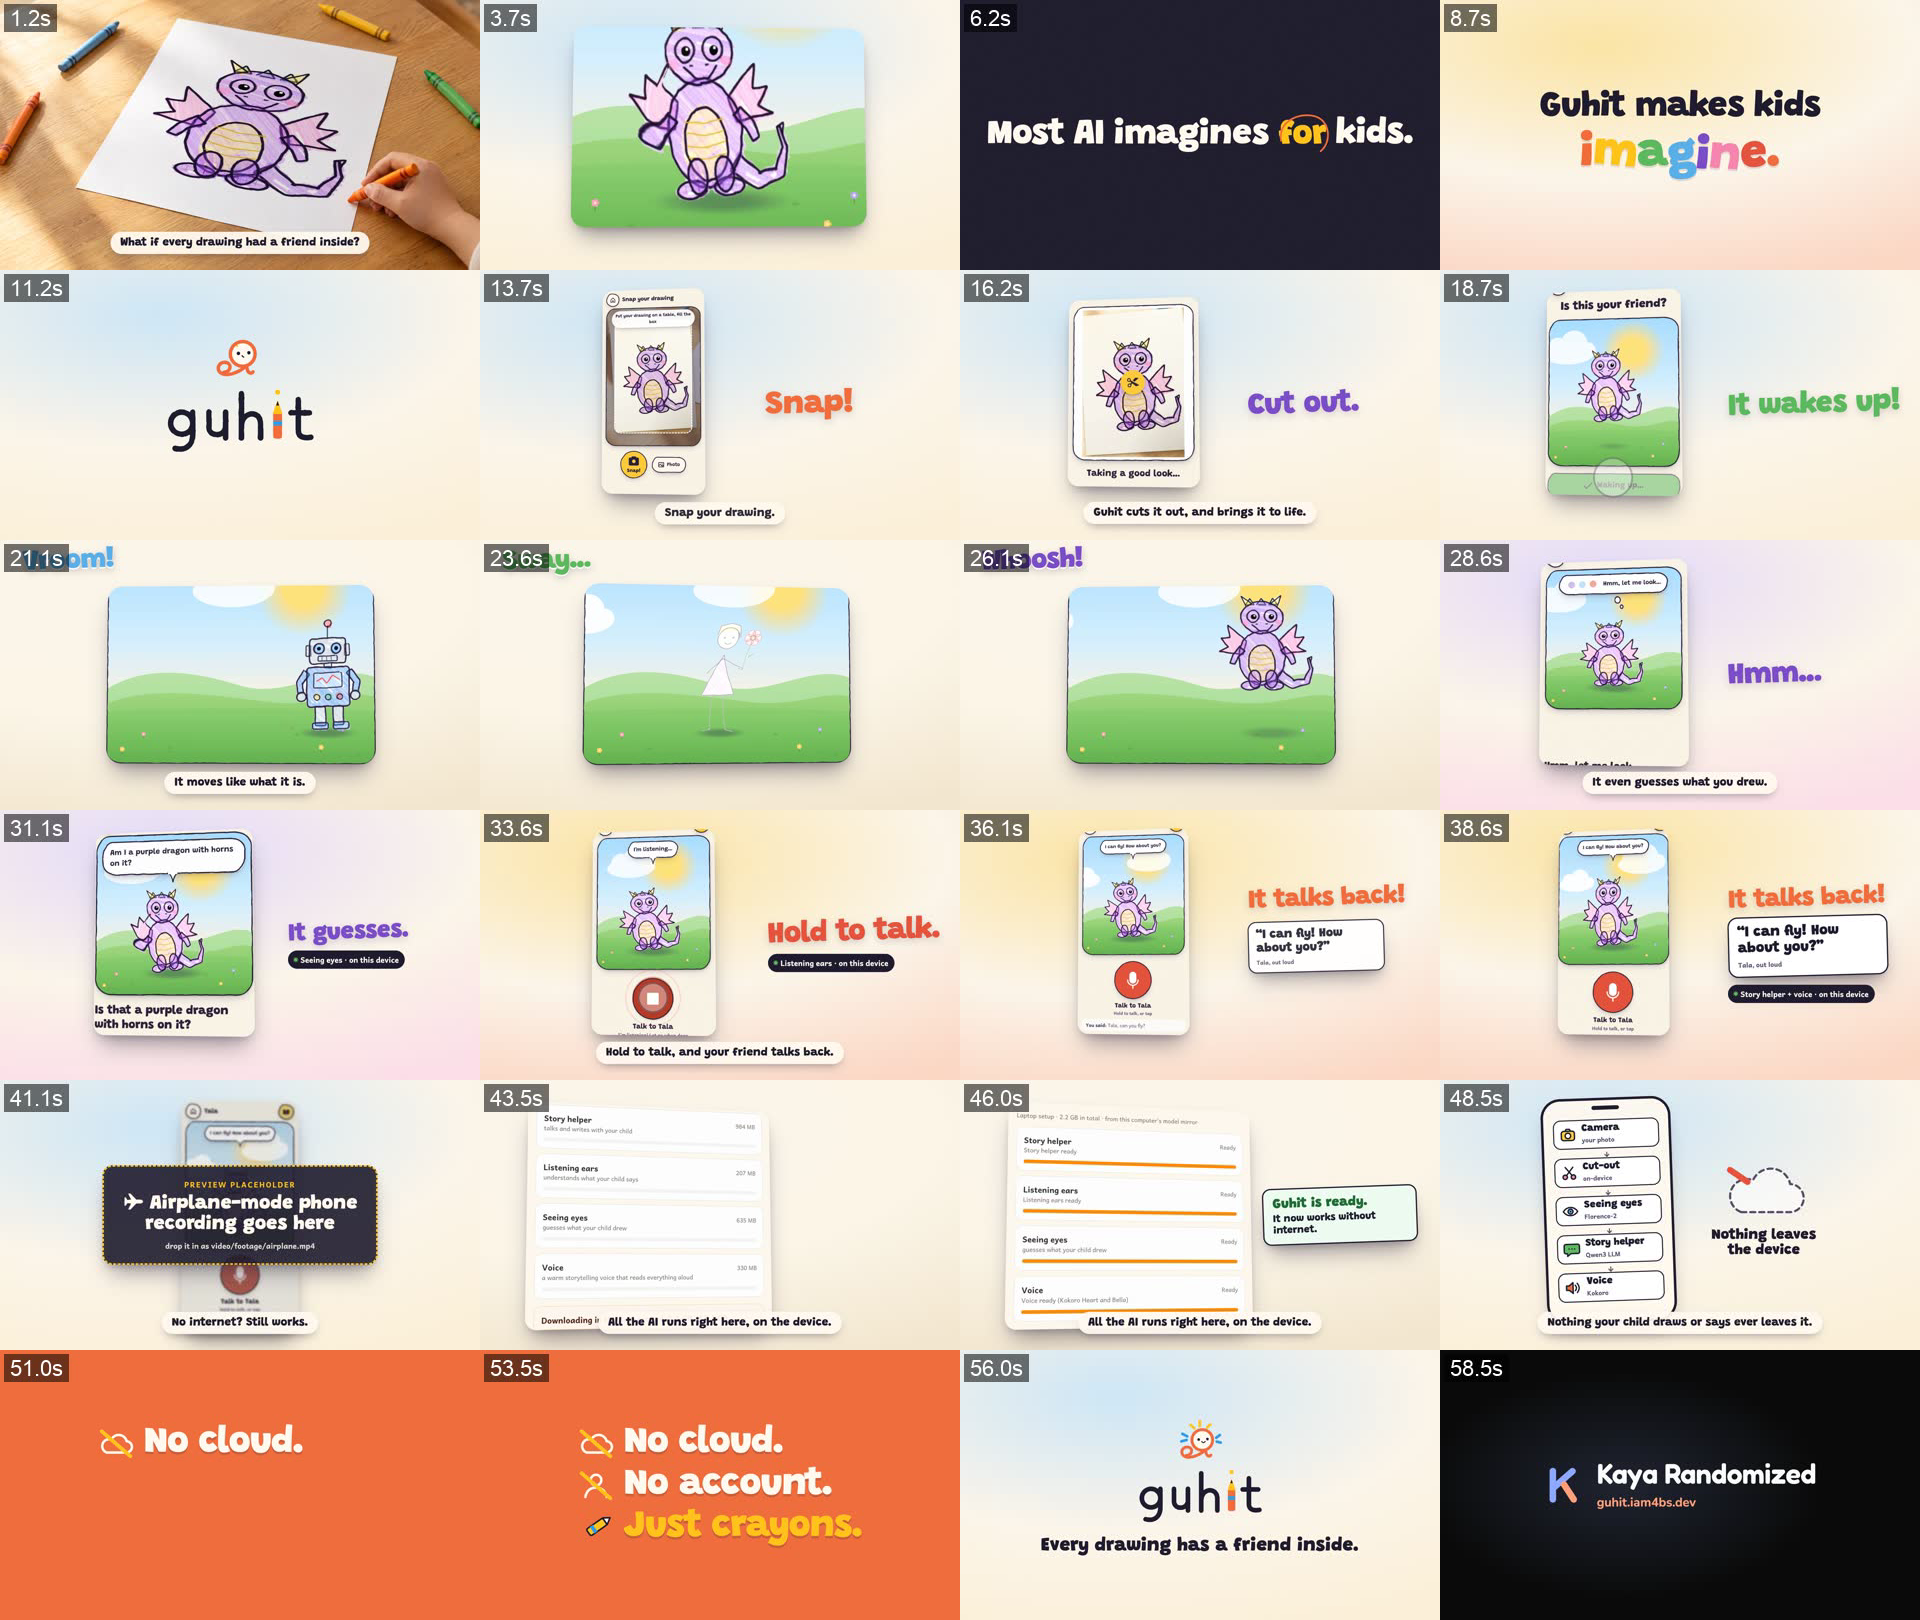
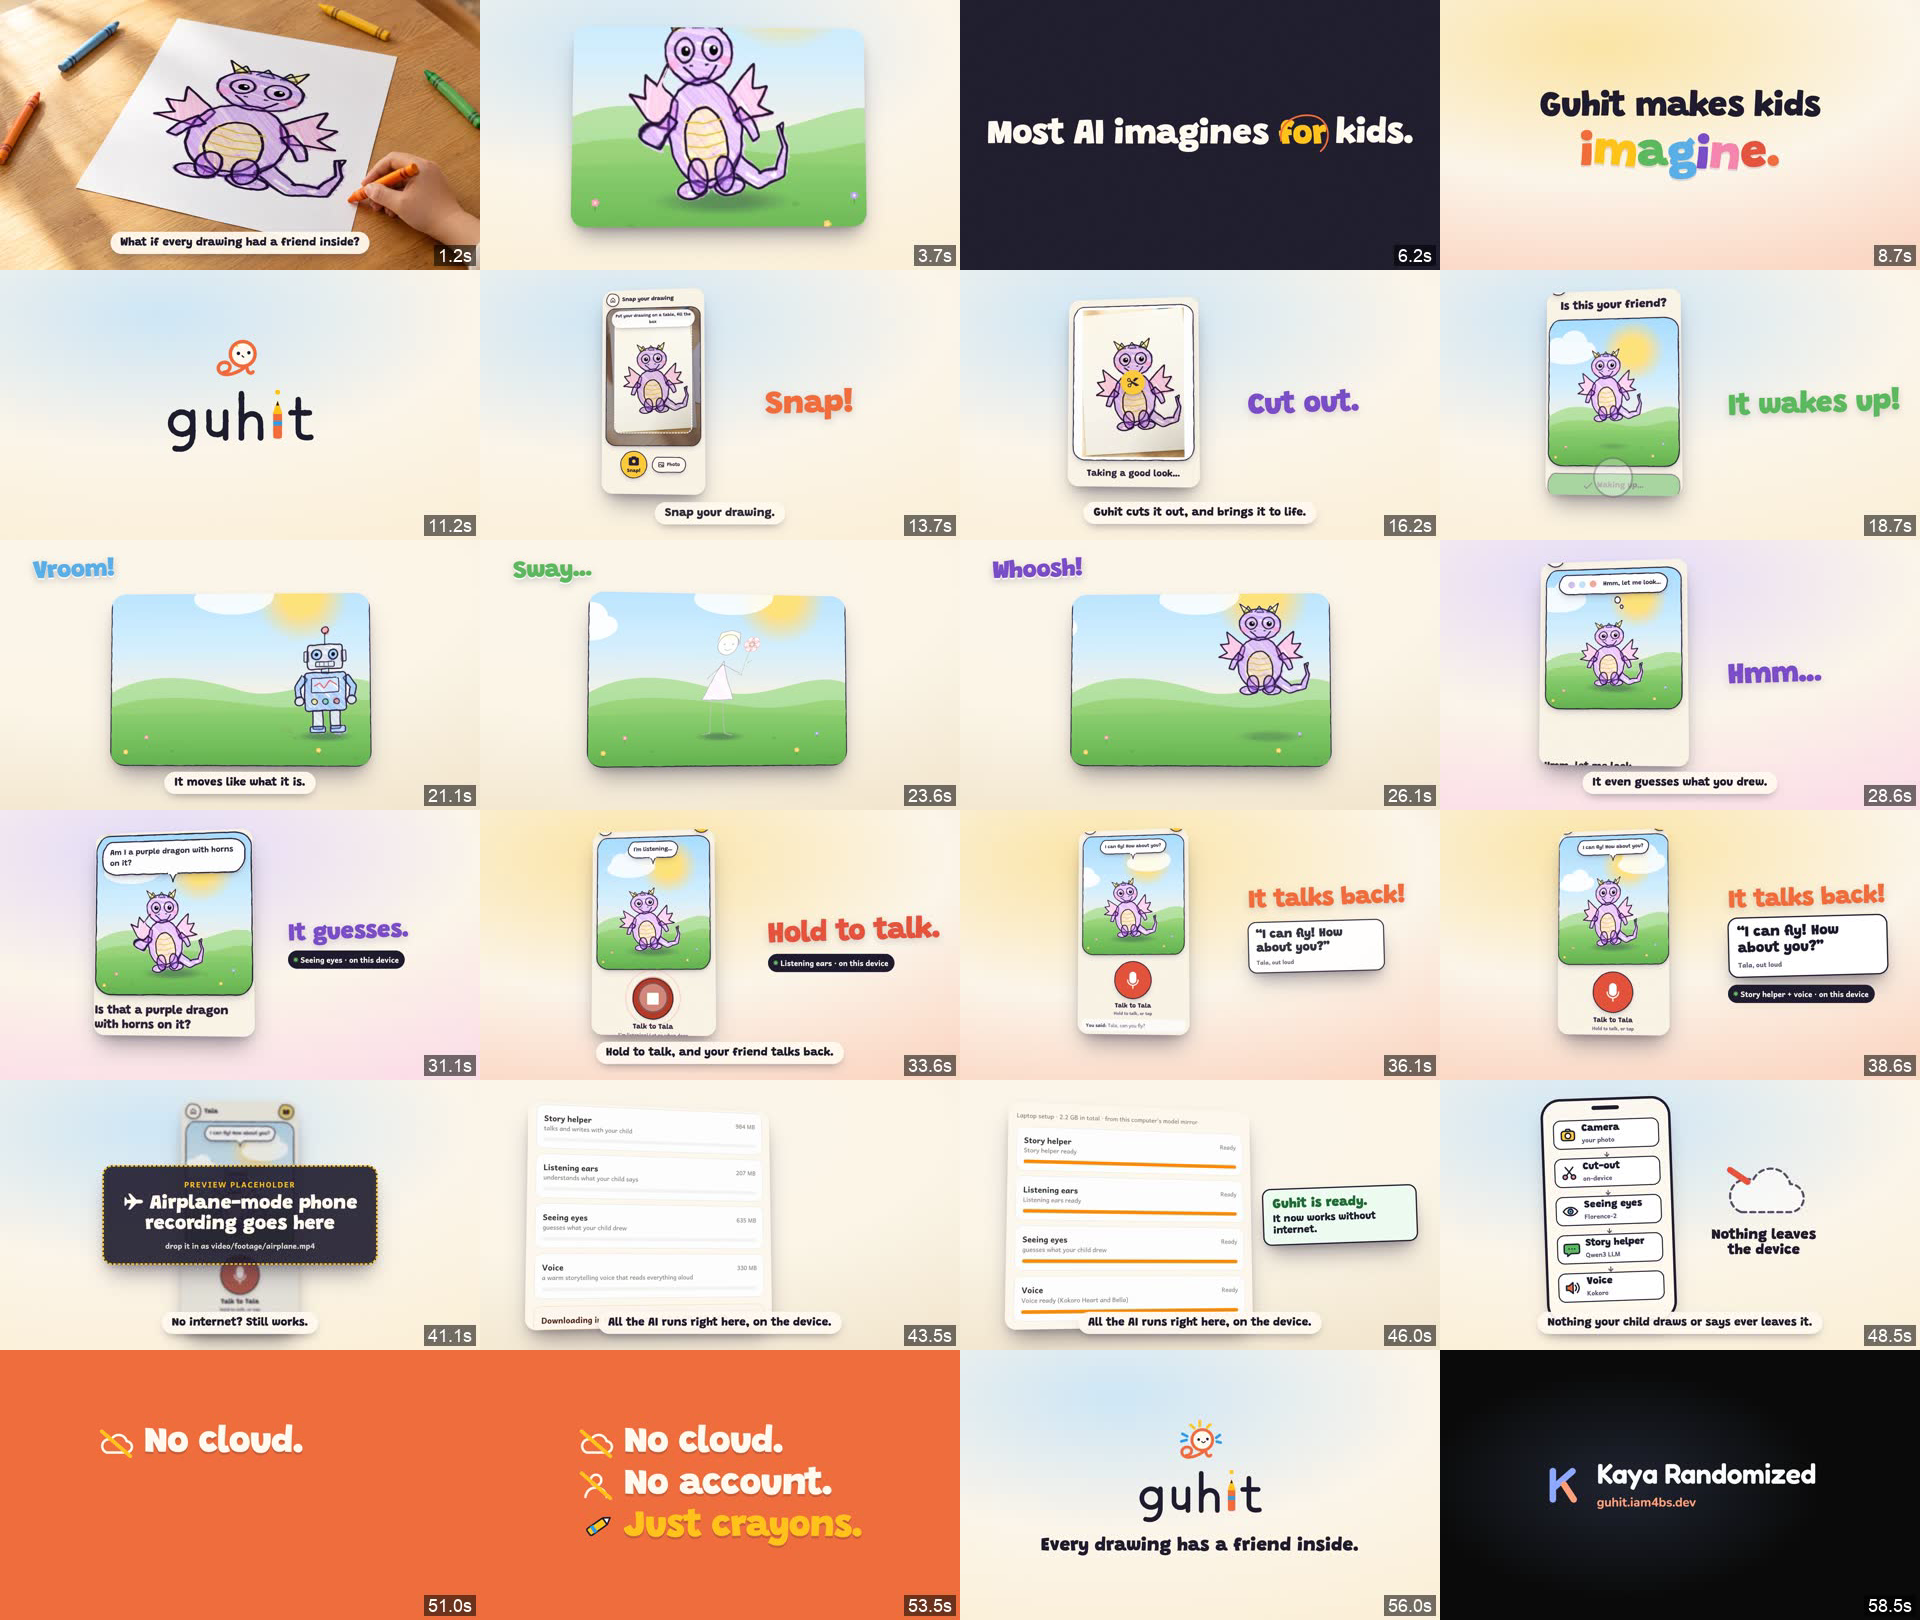
video: motion words inside the title-safe area
The Vroom!/Sway…/Whoosh! labels sat about 22 px from the top edge, outside
the 5% title-safe margin; they now sit inside it, clear of the footage
window. Review sheets put their timestamps bottom-right so they no longer
cover top-left content.

diff --git a/video/src/Promo.tsx b/video/src/Promo.tsx
@@ -355,14 +355,15 @@ function Move({ kind, label, color, from = 0.6 }: { kind: string; label: string;
         from={from}
         source={LAPTOP_SRC}
         crop={crop}
-        height={portrait ? height * 0.56 : height * 0.66}
+        height={portrait ? height * 0.56 : height * 0.64}
         x={width / 2}
-        y={portrait ? height * 0.44 : height * 0.49}
+        y={portrait ? height * 0.45 : height * 0.51}
         tilt={{ x: 2, y: kind === "plant" ? 4 : -4 }}
         radius={60}
       />
-      <AbsoluteFill style={{ alignItems: portrait ? "center" : "flex-start", justifyContent: "flex-start", padding: portrait ? "150px 60px" : "34px 90px" }}>
-        <IdeaTag color={color} style={{ fontSize: portrait ? 120 : 110, textShadow: "0 6px 0 rgba(255,255,255,0.9), 0 12px 30px rgba(42,34,56,0.25)" }}>
+      {/* Inside the title-safe area (5% in from every edge), clear of the footage window. */}
+      <AbsoluteFill style={{ alignItems: portrait ? "center" : "flex-start", justifyContent: "flex-start", padding: portrait ? "170px 80px" : "78px 132px" }}>
+        <IdeaTag color={color} style={{ fontSize: portrait ? 116 : 98, textShadow: "0 6px 0 rgba(255,255,255,0.9), 0 12px 30px rgba(42,34,56,0.25)" }}>
           {label}
         </IdeaTag>
       </AbsoluteFill>
